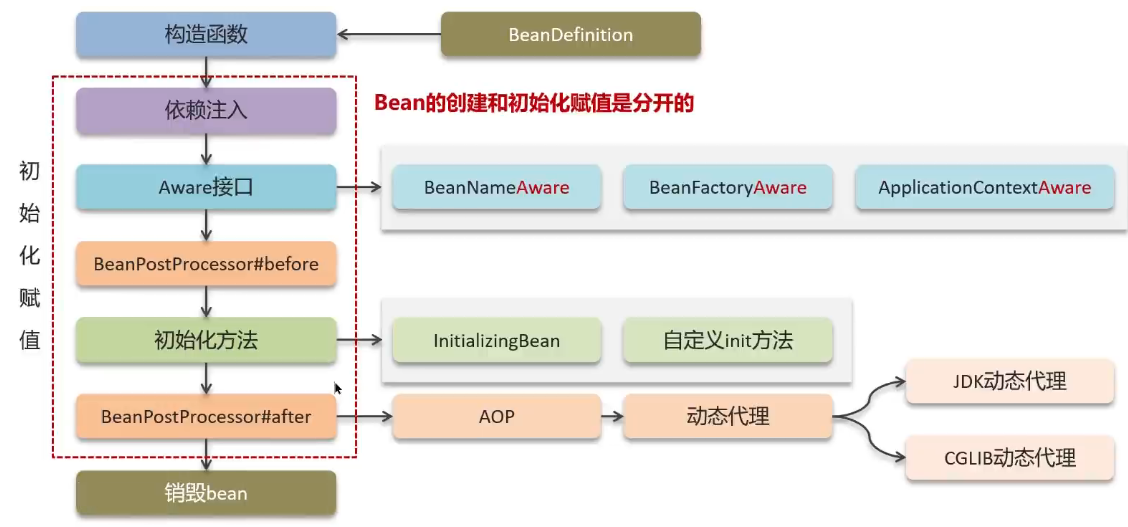
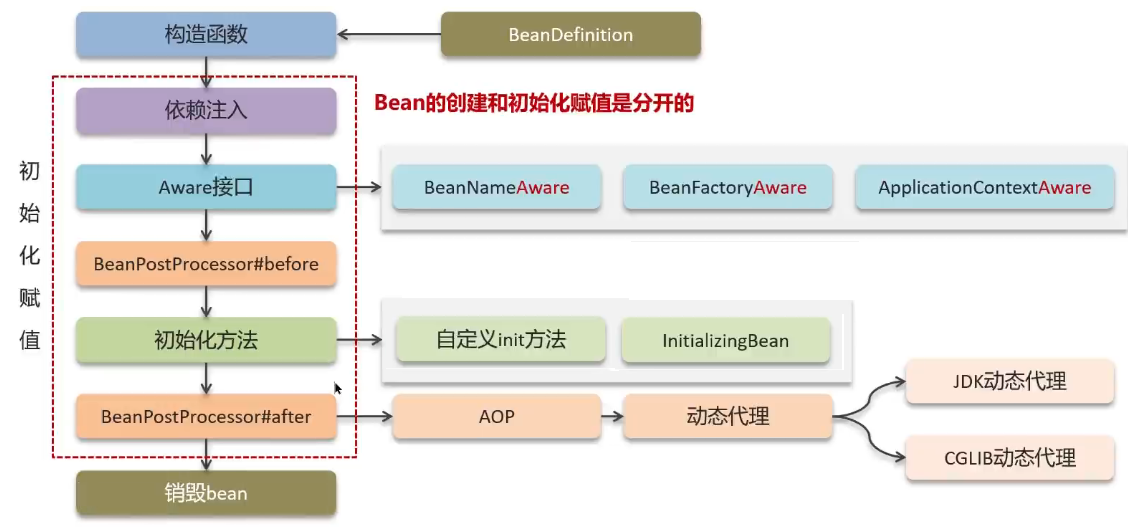
0530-am11

Changed region(s): [[0.3413, 0.6072, 0.4965, 0.6983], [0.5895, 0.6072, 0.7137, 0.6679], [0.5275, 0.6072, 0.5585, 0.6983]]

diff --git a/docs/spring/全局异常处理器.md b/docs/spring/全局异常处理器.md
@@ -1,7 +1,34 @@
-- @RestControllerAdvice  //表示当前类为全局异常处理器
-- @ExceptionHandler  //指定可以捕获哪种类型的异常进行处理
+- [全局异常处理器](#全局异常处理器)
+- [JSR303 validation](#jsr303-validation)
+  - [分组校验](#分组校验)
+  - [配合全局异常处理器](#配合全局异常处理器)
+  - [校验规则不满足?](#校验规则不满足)
+- [DateTimeFormat](#datetimeformat)
 
-@RestControllerAdvice = @ControllerAdvice + @ResponseBody。处理异常的方法返回值会转换为json后再响应给前端
+
+---
+## 全局异常处理器
+
+两个注解：`@ControllerAdvice`  表示当前类为全局异常处理器，`@ExceptionHandler`  指定可以捕获哪种类型的异常进行处理。
+
+
+~~~java
+// 表示当前类为全局异常处理器
+ControllerAdvice
+public class GlobalExceptionHandler {
+    // 指定能够处理的异常类型
+    @ExceptionHandler(Exception.class) 
+    @ResponseBody
+    public Result ex(Exception e){
+        e.printStackTrace();//打印堆栈中的异常信息
+        return Result.error("对不起,操作失败,请联系管理员");
+    }
+}
+~~~
+
+
+`@RestControllerAdvice` = @ControllerAdvice + @ResponseBody。处理异常的方法返回值会转换为json后再响应给前端
+
 ~~~java
 // 表示当前类为全局异常处理器
 @RestControllerAdvice
@@ -14,3 +41,102 @@ public class GlobalExceptionHandler {
     }
 }
 ~~~
+
+`@ResponseStatus` 返回给前端的状态码
+
+```java
+@RestControllerAdvice
+public class GlobalExceptionHandler {
+    @ExceptionHandler(Exception.class) 
+    @ResponseStatus(HttpStatus.INTERNAL_SERVER_ERROR)
+    public Result ex(Exception e){
+        e.printStackTrace();//打印堆栈中的异常信息
+        return Result.error("对不起,操作失败,请联系管理员");
+    }
+}
+```
+
+![alt text](../../images/image-406.png)
+
+## JSR303 validation
+
+```xml
+<dependency>
+    <groupId>org.springframework.boot</groupId>
+    <artifactId>spring-boot-starter-validation</artifactId>
+</dependency>
+```
+
+![alt text](../../images/image-408.png)
+
+接受参数类型的dto类，定义校验项。
+```java
+public class AddCourseDto{
+    @NotEmpty(message = "课程名称不能为空")
+    private String name;
+
+    @Size(message = "内存太少", min = 10)
+    private String description;
+
+    @Min(message = "页码不能小于1", value = 1)
+    private Integer pageNo;
+}
+```
+controller中 `@Validated` 来开启校验。
+
+```java
+@RestController
+public class CourseBaseInfoController{
+    public CourseBaseInfoDto createCourseBase(@RequestBody @Validated AddCourseDto addCourseDto){
+
+    }
+}
+```
+
+### 分组校验
+
+新增课程和修改课程，对同一个字段要求不一样。
+
+```java
+public class ValidationGroups{
+    public interface Insert{};
+    public interface Update{};
+    public interface Delete{};
+}
+```
+dto中添加组属性 `groups`
+```java
+public class AddCourseDto{
+    @NotEmpty(message = "新增课程名称不能为空", groups = {ValidationGroups.Insert.class})
+    @NotEmpty(message = "修改课程名称不能为空", groups = {ValidationGroups.Update.class})
+    private String name;
+}
+```
+controller中指定使用某个组 `@Validated(组)`
+```java
+@RestController
+public class CourseBaseInfoController{
+    public CourseBaseInfoDto createCourseBase(@RequestBody @Validated(ValidationGroups.Insert.class) AddCourseDto addCourseDto){
+
+    }
+
+    public CourseBaseInfoDto updateCourseBase(@RequestBody @Validated(ValidationGroups.Update.class) AddCourseDto addCourseDto){
+
+    }
+}
+```
+### 配合全局异常处理器
+
+![alt text](../../images/image-320.png)
+
+### 校验规则不满足?  
+
+1. 手写校验代码。
+2. 自定义校验注解。
+
+## DateTimeFormat
+
+![alt text](../../images/image-319.png)
+
+
+![alt text](../../images/image-407.png)

diff --git a/docs/spring/八股.md b/docs/spring/八股.md
@@ -14,22 +14,48 @@
 - [Springboot 的自动配置原理](#springboot-的自动配置原理)
 - [Spring 框架常用注解](#spring-框架常用注解)
 - [Springmvc 流程](#springmvc-流程)
+- [【mybatis和mybatisplus】](#mybatis和mybatisplus)
 - [mybatis 执行流程](#mybatis-执行流程)
 - [mybatis 延迟加载](#mybatis-延迟加载)
 - [mybatis 延迟加载原理](#mybatis-延迟加载原理)
 - [mybatis 缓存](#mybatis-缓存)
-- [MyBatis的ResultType和ResultMap的区别？](#mybatis的resulttype和resultmap的区别)
+- [mybatis的ResultType和ResultMap的区别？](#mybatis的resulttype和resultmap的区别)
+- [mybatis 参数占位符](#mybatis-参数占位符)
+- [mybatisplus 分页插件的原理?](#mybatisplus-分页插件的原理)
+- [如何处理异常?](#如何处理异常)
+- [如何校验参数合法性？](#如何校验参数合法性)
 
 ---
 
 
 ## Spring 的 bean 的生命周期
 
+创建：
+
+①通过BeanDefinition获取bean的定义信息
+
+②调用构造函数实例化bean
+
+初始化：
+
+③bean的依赖注入
+
+④处理Aware接口 (BeanNameAware、 BeanFactoryAware、 ApplicationContextAware)
+
+⑤Bean的后置处理器BeanPostProcessor接口-before方法
+
+⑥初始化方法 (自定义init方法`@PostConstruct`, InitializingBean接口)
+
+⑦Bean的后置处理器BeanPostProcessor接口-after方法
+
+销毁：
+
+⑧销毁bean
+
+
 ![](../../images/Xbvsbe6VKo6vn6x1wVAcPT6nn1b.png)
 
 ![](../../images/U0Q0b21eFoRgjrxuYuRcFt3lnX4.png)
-
-![](../../images/DpyCbLT79oXypixESsIcVf5hndh.png)
 
 ![](../../images/VafBbyIt9o5GZMxwC88csDHjnwf.png)
 
@@ -195,6 +221,8 @@ springboot：`@SpringBootApplication`
 
 ![](../../images/JIcXb7E14oY4tsxXXfdc61cbnFh.png)
 
+## 【mybatis和mybatisplus】
+
 ## mybatis 执行流程
 
 ![](../../images/CQtyb13qho5HTFxwgpxcG7F4nyc.png)
@@ -248,10 +276,48 @@ mybatis-config.xml
 ![](../../images/JYeibA9Rdo3wkoxEQqAcrR6InJc.png)
 
 
-## MyBatis的ResultType和ResultMap的区别？
+## mybatis的ResultType和ResultMap的区别？
 
 ResultType: 指定映射类型。
 
 ResultMap: 自定义映射规则。可以实现一对多、一对一映射。
 
 当查询的字段名和映射POJO类的属性一一对应时，用ResultType；当不匹配时，用ResultMap自定义映射规则。
+
+## mybatis 参数占位符
+
+- `${...}` 直接拼接
+  - 直接将参数拼接在SQL语句中，存在SQL注入问题
+
+- `#{...}` 预编译SQL
+  - 执行SQL时，会将`#{…}`替换为`?`，生成预编译SQL，会自动设置参数值
+
+预编译SQL有两个优势：
+
+1. 性能更高: 只编译一次，编译后的SQL语句缓存起来，后面再次执行这条语句时，不会再次编译。（只是输入的参数不同）
+2. 更安全(防止SQL注入)：不采用字符串拼接，而是将敏感字进行转义
+
+## mybatisplus 分页插件的原理?
+
+首先分页参数放到ThreadLocal中。
+
+拦截执行的sql, 根据数据库类型添加对应的分页语句重写sql,  转换为 count 和 limit语句。 例如: `select * from table where a` → `select count(*) from table where a` 和 `select * from table where a limit xxx`语句。
+
+计算出了总条数、总页数、当前第几页、每页大小和当前页的数据，是否为首页，是否为尾页，等。
+
+
+## 如何处理异常?
+
+首先，自定义异常类型。抛出异常时指定详细的异常信息。
+
+其次，定义全局异常处理器(`@ControllerAdvice`和`@ExceptionHandler`)去捕获并处理异常，打印信息记录异常日志并响应给用户异常信息。
+
+## 如何校验参数合法性？
+
+首先，使用JSR303 validation。
+
+在接受参数类型的dto类，定义校验项。controller中 `@Validated` 来开启校验。
+
+新增、修改共用时，指定分组groups。
+
+齐次，在service中对某些参数进行业务逻辑的校验。

diff --git a/docs/javase/基本/异常.md b/docs/javase/基本/异常.md
@@ -1,5 +1,7 @@
 - [编译时异常，要声明抛出 throws、或者try捕获](#编译时异常要声明抛出-throws或者try捕获)
 - [概念](#概念)
+- [有哪些异常举例](#有哪些异常举例)
+- [异常捕获](#异常捕获)
 - [异常信息](#异常信息)
 - [抛出异常](#抛出异常)
 - [异常类如何定义](#异常类如何定义)
@@ -62,14 +64,25 @@ public static void main(String[] args) {
     
 在编译阶段就会提示错误，如果没有处理异常，则编译失败。
 
-意义：提醒程序员检查本地信息。比如，文件不存在 `FileNotFoundException`、数据库未初始化、日期格式化异常
+意义：提醒程序员检查本地信息。
 
 - 运行时异常（非检查型异常）: `RuntimeException`本身和子类。
     
 在编译阶段不报错，运行时才出现。(如数学异常)
 
-意义：参数错误而导致的问题。比如，输入不该是空指针 `NullPointerException`，算数不该除0 `ArithmeticException`，数组下标越界异常`IndexOutOfBoundsException`。
+意义：参数错误而导致的问题。
 
+## 有哪些异常举例
+
+- 编译时异常
+
+文件不存在 `FileNotFoundException`、数据库未初始化、日期格式化异常
+
+- 运行时异常
+
+输入不该是空指针 `NullPointerException`，算数不该除0 `ArithmeticException`，数组下标越界异常`IndexOutOfBoundsException`。
+
+## 异常捕获
 
 当多异常处理时，捕获处理，前边的类不能是后边类的父类。父类一定要写在下面
 ```java

diff --git a/docs/八股/mysql.md b/docs/八股/mysql.md
@@ -1,6 +1,7 @@
 - [sql语句的功能](#sql语句的功能)
 - [char varch](#char-varch)
 - [where与having区别](#where与having区别)
+- [树型表的标记字段是什么? 如何查询MySQL树型表?](#树型表的标记字段是什么-如何查询mysql树型表)
 - [er图](#er图)
 - [范式](#范式)
 - [sql注入](#sql注入)
@@ -74,6 +75,16 @@ char的性能会更高些，varchar更省空间。
 - 执行时机不同：where是分组之前进行过滤，不满足where条件，不参与分组；而having是分组
 之后对结果进行过滤。
 - 判断条件不同：where不能对聚合函数进行判断，而having可以。
+
+
+## 树型表的标记字段是什么? 如何查询MySQL树型表?
+
+树型表的标记字段是parentid，表示父结点的id。
+
+查询一个树型表的方法:
+- 当层级固定时可以用表的**自链接**进行查询。
+- 如果想灵活查询每个层级可以使用mysg|**递归**方法，使用with RECURSIVE实现。
+
 
 ## er图
 

diff --git a/docs/项目/学成在线.md b/docs/项目/学成在线.md
@@ -3,6 +3,9 @@
 ![alt text](../../images/image-234.png)
 
 ![alt text](../../images/image-405.png)
+
+课程营销信息和课程基本信息的主键相同。
+
 ## 项目开发流程
 
 ![alt text](../../images/image-132.png)
@@ -25,3 +28,9 @@
 -   断点续传：如果上传过程中出现网络中断或其他异常情况，客户端可以记录已上传的分片信息，下次继续上传时可以从断点处继续上传，以实现断点续传的功能。
 
 通过图片分片上传的方式，可以有效地处理大文件的上传，提高上传效率和稳定性，并且可以灵活控制上传过程，适应不同的网络环境和服务器条件。
+
+## 功能
+
+课程查询
+
+课程分类查询（树形）、添加课程（课程基本信息、营销信息）。

diff --git a/docs/spring/mybatis-plus.md b/docs/spring/mybatis-plus.md
@@ -147,14 +147,14 @@ public class User {
 - 表名不一致 `@TableName`
 - 主键名不一致:`@TableId`
   - 可以set指定id，不set则自己生成。生成方案，如果是数据库设置 `auto_increment` 必须写 `IdType.AUTO`，否则默认是雪花算法 `IdType.ASSIGN_ID`。
-- 字段名：@TableField
+- 字段名：`@TableField`
   - 不一致；is被过滤；关键字冲突要转义``` `xxx` ```；
   - 非数据库字段`@TableField(exist = false)`，我们手动维护。
 
 
 ## BaseMapper和IService
 
-> BaseMapper
+> BaseMapper 和 IService 对比
 
 ![alt text](../../images/image-264.png)
 

diff --git a/docs/spring/hutool.md b/docs/spring/hutool.md
@@ -3,7 +3,7 @@
     - [copyProperties](#copyproperties)
     - [toBean](#tobean)
   - [bean和map](#bean和map)
-- [bean和list](#bean和list)
+  - [bean和list](#bean和list)
 - [Json](#json)
 - [字符串](#字符串)
 - [Boolean](#boolean)
@@ -65,7 +65,7 @@ Map<Object, Object> userMap = stringRedisTemplate.opsForHash().entries(key);
 UserDTO userDTO = BeanUtil.fillBeanWithMap(userMap, new UserDTO(), false);  // fasle表示有错就抛出
 ```
 
-## bean和list
+### bean和list
 
 ```java
 List<User> users = userService.listByIds(ids);

diff --git a/docs/todo.md b/docs/todo.md
@@ -261,3 +261,10 @@ cookie被拿到以后，通常可以换一个机器访问。
 消息队列，削峰什么
 
 ![alt text](../images/image-115.png)
+
+
+
+----
+
+
+- [ ] `#{id}` `parameterType="string"`

diff --git a/todolist.md b/todolist.md
@@ -10,10 +10,3 @@
 ---
 0429
 
-- [ ] 标记
-
-    ![alt text](images/image-319.png)
-
-    ![alt text](images/image-320.png)
-
-    `import javax.validation.constraints.Min;`
